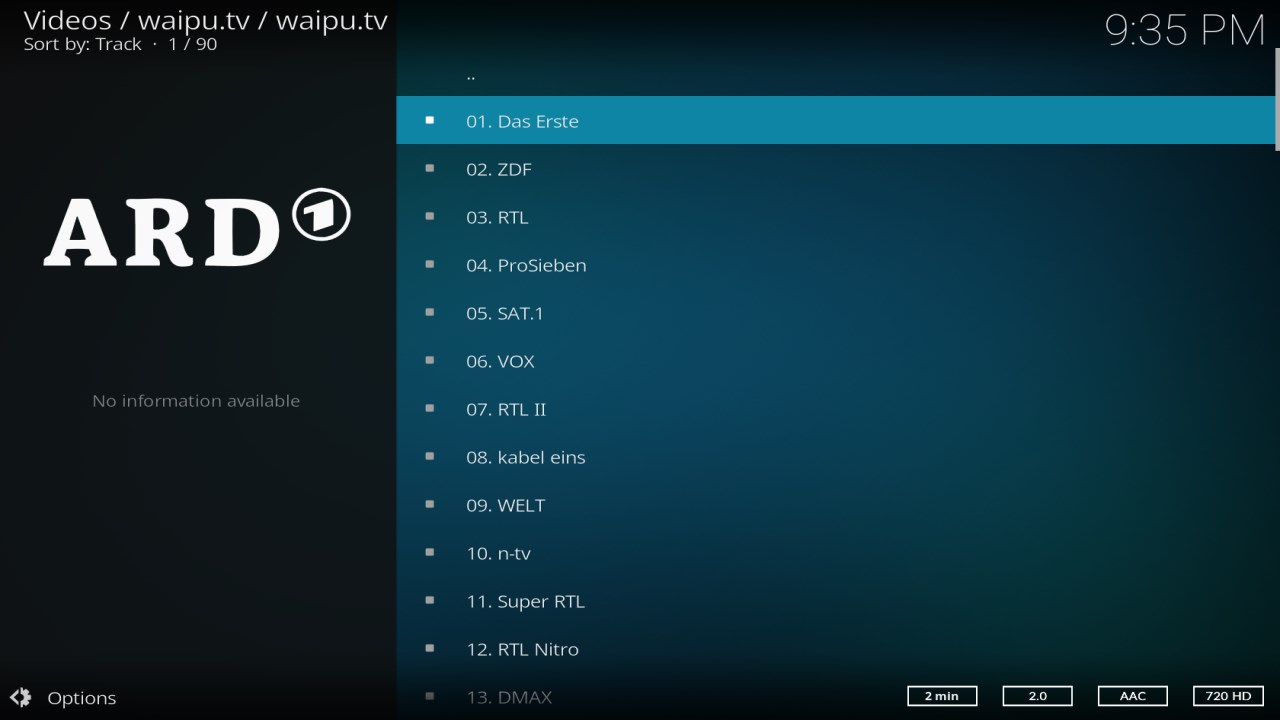
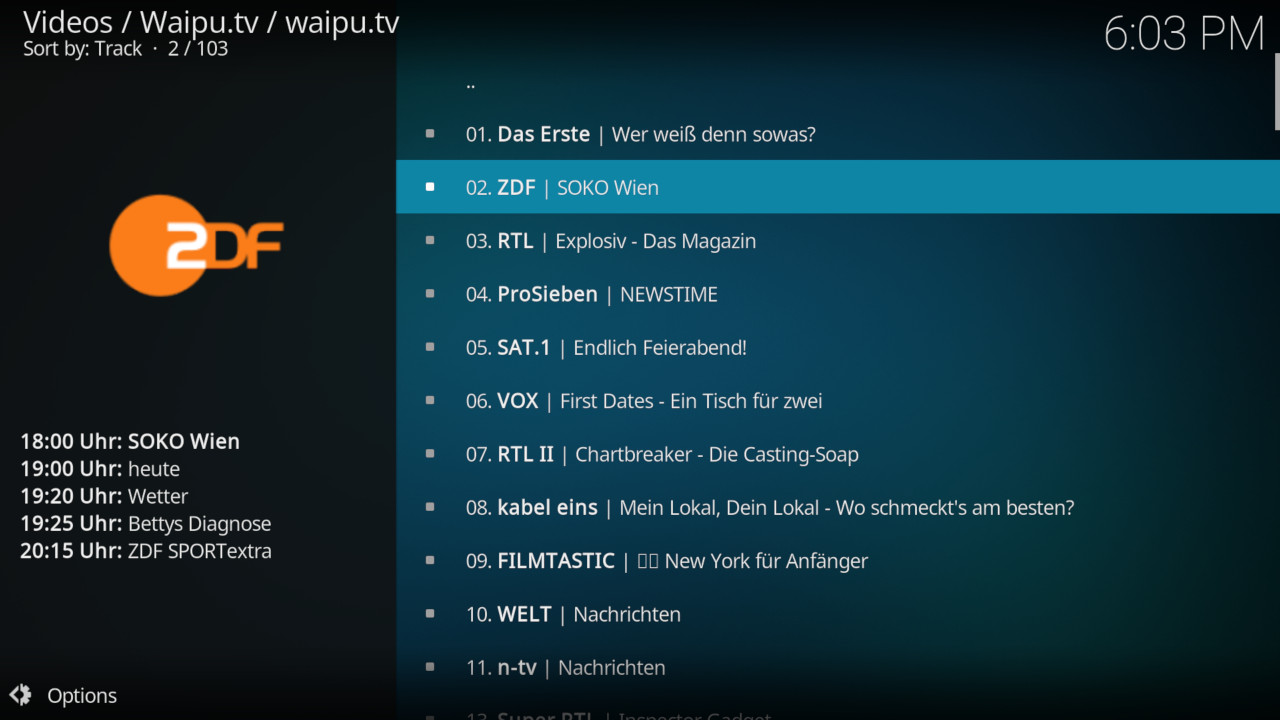
Add settings, language support Release: 0.0.12

diff --git a/main.py b/main.py
@@ -27,9 +27,6 @@ password = xbmcplugin.getSetting(_handle, "password")
 # open settings, 
 if not username or not password:
     xbmcaddon.Addon().openSettings()
-    # TODO not working as expected
-    username = xbmcplugin.getSetting(_handle, "username")
-    password = xbmcplugin.getSetting(_handle, "password")
 
 w = Waipu(username, password)
 
@@ -45,6 +42,8 @@ def get_url(**kwargs):
     """
     return '{0}?{1}'.format(_url, urlencode(kwargs))
 
+def _T(id):
+    return xbmcaddon.Addon().getLocalizedString(id)
 
 def get_default():
     # Set plugin category. It is displayed in some skins as the name
@@ -52,12 +51,12 @@ def get_default():
     xbmcplugin.setPluginCategory(_handle, 'waipu.tv')
 
     # TV channel list
-    list_item = xbmcgui.ListItem(label="Live TV", iconImage="DefaultAddonPVRClient.png")
+    list_item = xbmcgui.ListItem(label=_T(32030), iconImage="DefaultAddonPVRClient.png")
     url = get_url(action='list-channels')
     xbmcplugin.addDirectoryItem(_handle, url, list_item, isFolder=True)
 
     # recordings list
-    list_item = xbmcgui.ListItem(label="Aufnahmen", iconImage="DefaultFolder.png")
+    list_item = xbmcgui.ListItem(label=_T(32031), iconImage="DefaultFolder.png")
     url = get_url(action='list-recordings')
     xbmcplugin.addDirectoryItem(_handle, url, list_item, isFolder=True)
 
@@ -129,8 +128,14 @@ def list_channels():
     # for this type of content.
     xbmcplugin.setContent(_handle, 'videos')
     # Get video categories
+    epg_in_channel = xbmcplugin.getSetting(_handle, "epg_in_channel") == "true"
+    epg_in_plot = xbmcplugin.getSetting(_handle, "epg_in_plot") == "true"
+    if epg_in_plot:
+        epg_hours_future = xbmcplugin.getSetting(_handle, "epg_hours_future")
+    else:
+        epg_hours_future = 0
     try:
-        channels = w.getChannels()
+        channels = w.getChannels(epg_hours_future)
     except Exception as e:
         dialog = xbmcgui.Dialog().ok("Error", str(e))
         return
@@ -144,15 +149,23 @@ def list_channels():
         plot = ""
         b1 = "[B]"
         b2 = "[/B]"
-        if "programs" in data:
+        if epg_in_plot and "programs" in data:
             for program in data["programs"]:
                 starttime = parser.parse(program["startTime"]).strftime("%H:%M")
                 plot += "[B]" + starttime + " Uhr:[/B] " + b1 + program["title"] + b2 + "\n"
                 b1 = ""
                 b2 = ""
+        elif not epg_in_plot and "programs" in data and len(data["programs"]) > 0:
+            plot = data["programs"][0]["description"]
 
-        list_item = xbmcgui.ListItem(label="[B]"+channel['displayName']+"[/B]"+epg_now)
-        list_item.setInfo('video', {'title': "[B]"+channel['displayName']+"[/B]"+epg_now,
+        if epg_in_channel:
+            title = "[B]"+channel['displayName']+"[/B]"+epg_now
+        else:
+            title = channel['displayName']
+
+
+        list_item = xbmcgui.ListItem(label=title)
+        list_item.setInfo('video', {'title': title,
                                     'tracknumber' : channel['orderIndex']+1,
                                     'plot': plot,
                                     'mediatype': 'video'})
@@ -225,13 +238,7 @@ def play_recording(recordingid):
         return False
 
     user_agent = "waipu-2.29.3-370e0a4-9452 (Android 8.1.0)"
-    print "Playing "+recordingid
-    """
-    Play a video by the provided path.
 
-    :param path: Fully-qualified video URL
-    :type path: str
-    """
     streamingData = w.playRecording(recordingid)
     for stream in streamingData["streamingDetails"]["streams"]:
         if (stream["protocol"] == 'MPEG_DASH'):

diff --git a/waipu.py b/waipu.py
@@ -28,17 +28,19 @@ class Waipu:
     def getToken(self):
         if (self._auth == None or self._auth["expires"] <= time.time()):
             code = self.fetchToken()
-            if (code != 200):
+            if code == 401:
+                raise Exception("Login: Invalid user/password!")
+            elif (code != 200):
                 raise Exception("Can't login, Code=" + str(code))
         # TODO: renew token
         # print(self._auth)
         return self._auth['access_token']
 
-    def getChannels(self):
+    def getChannels(self, epg_hours_future = 0):
         self.getToken()
 
         starttime = time.strftime("%Y-%m-%dT%H:%M:%S",time.localtime());
-        endtime = time.strftime("%Y-%m-%dT%H:%M:%S",time.localtime(time.time() + 3*60*60))
+        endtime = time.strftime("%Y-%m-%dT%H:%M:%S",time.localtime(time.time() + int(epg_hours_future)*60*60))
 
         url = "https://epg.waipu.tv/api/programs?includeRunningAtStartTime=true&startTime="+starttime+"&stopTime="+endtime
         headers = {'User-Agent': 'waipu-2.29.2-c0f220b-9446 (Android 8.1.0)',
